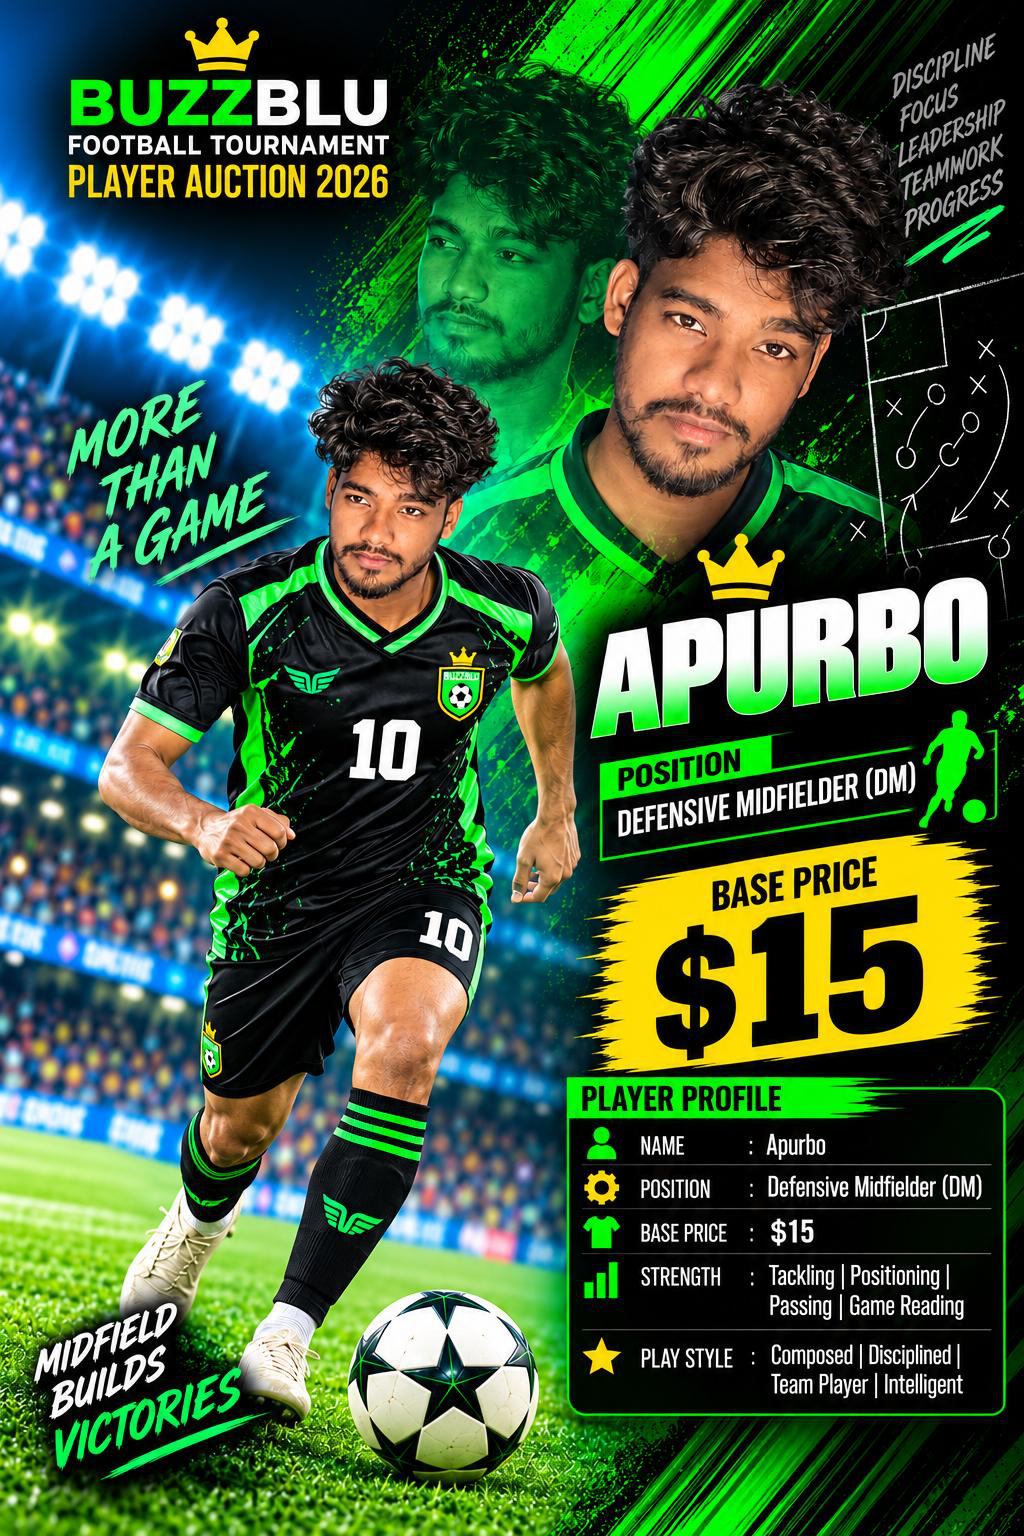
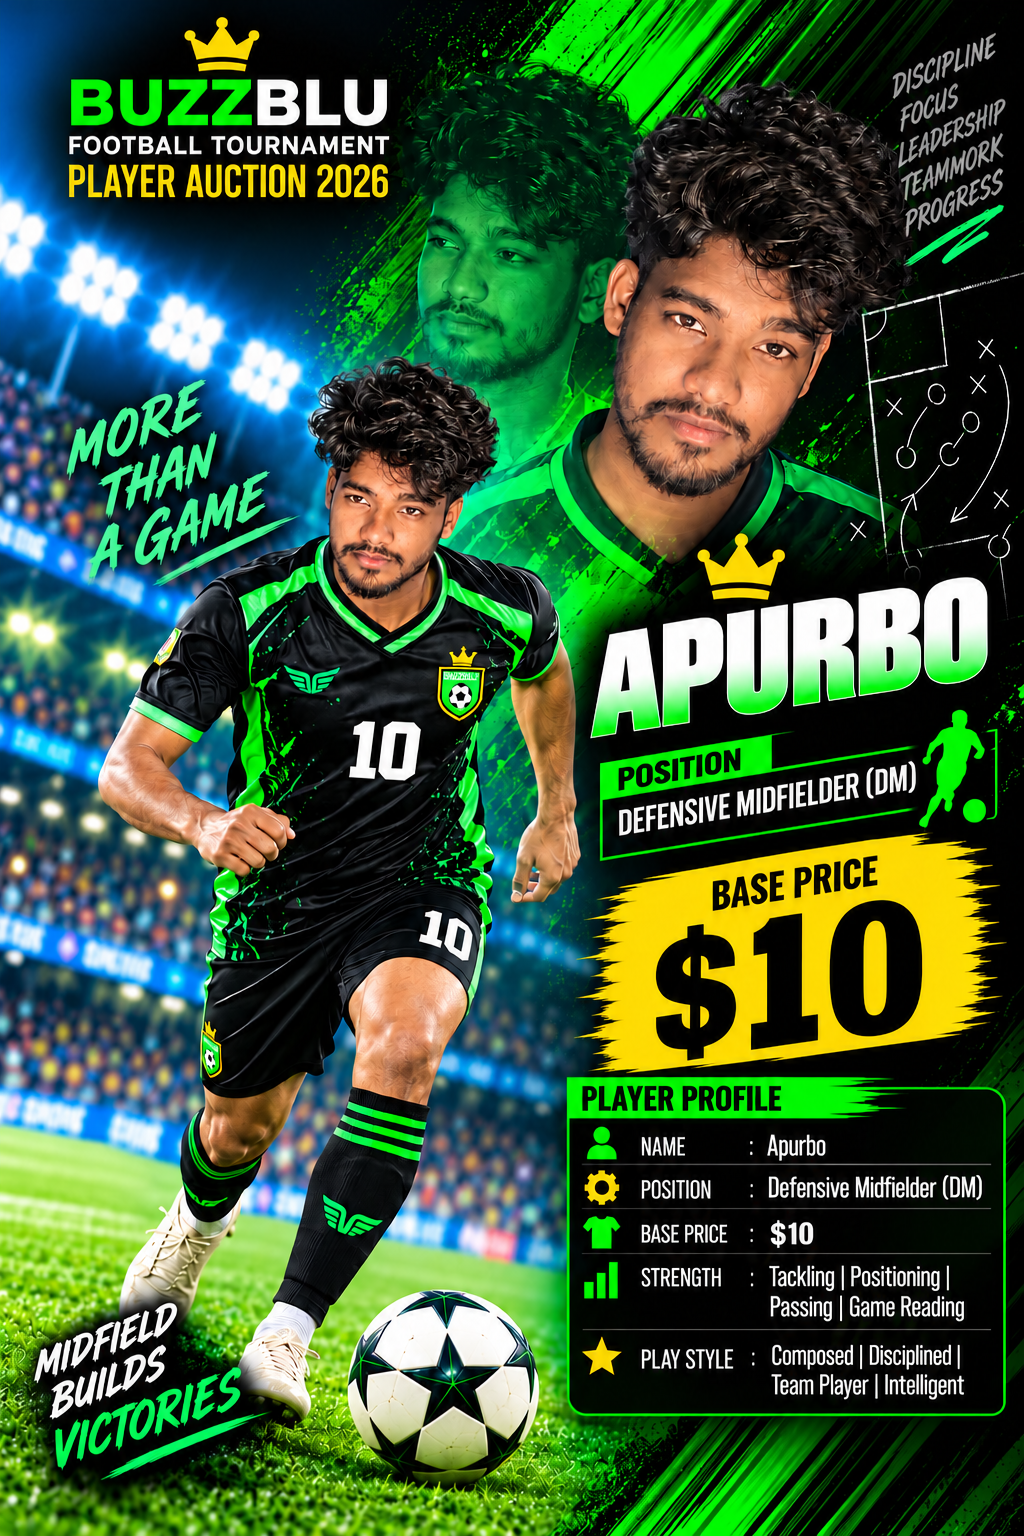
Reissue two cards, one with a corrected price
APURBO and RAKIB were reprinted. Artwork goes through the existing override
folder; APURBO's base price also changed, so field corrections now live in
data/card_corrections.json, applied after the slide is read and listed in the
extraction report. The rule still holds: a value only changes when the card
itself shows it differently.

Claude-Session: https://claude.ai/code/session_01UwE8tW7uyisJcpMMNXLgFS

diff --git a/BuzzBlu_Production/scripts/extract_players.py b/BuzzBlu_Production/scripts/extract_players.py
@@ -94,7 +94,9 @@ def main():
     for old in list(photos.glob("*.png")) + list(cards.glob("*.png")):
         old.unlink()
 
-    players, problems, overrides = [], [], []
+    corrections_file = ROOT / "data" / "card_corrections.json"
+    corrections = json.loads(corrections_file.read_text()) if corrections_file.exists() else {}
+    players, problems, overrides, corrected = [], [], [], []
     for index, page in enumerate(doc):
         rec = read_slide(page)
         if rec is None:
@@ -109,12 +111,19 @@ def main():
             continue
         photo = photos / f"{stem}.png"
         pix.save(photo)
-        # A corrected card supplied by the tournament replaces the one in the PDF.
-        # Only artwork is overridden here; names and prices still come from the slide.
+        # A reissued card replaces the one in the PDF. The artwork comes from
+        # assets/card_overrides/<id>.png; where a field was reprinted differently,
+        # data/card_corrections.json carries the value exactly as the new card shows it.
         override = ROOT / "assets" / "card_overrides" / f"{stem}.png"
         if override.exists():
             shutil.copyfile(override, photo)
             overrides.append(stem)
+        for field, value in corrections.get(stem, {}).items():
+            if field not in rec:
+                problems.append(f"{stem}: correction names an unknown field {field!r}")
+            elif rec[field] != value:
+                corrected.append(f"{stem}.{field}: {rec[field]!r} -> {value!r}")
+                rec[field] = value
         # Page render at 2x, kept so the extraction can be checked against the slide.
         page.get_pixmap(dpi=144).save(cards / f"{stem}_slide.png")
 
@@ -142,7 +151,8 @@ def main():
     (ROOT / "reports" / "extraction_report.json").write_text(json.dumps(
         {"pdf": PDF.name, "pages": doc.page_count, "players": len(players),
          "icons": len(icons), "regulars": len(players) - len(icons),
-         "card_overrides": overrides, "problems": problems}, indent=1))
+         "card_overrides": overrides, "field_corrections": corrected,
+         "problems": problems}, indent=1))
 
     for p in players:
         print(f"{p['sequence']:02d} p{p['page']:02d} {'ICON' if p['is_icon'] else '    '} "
